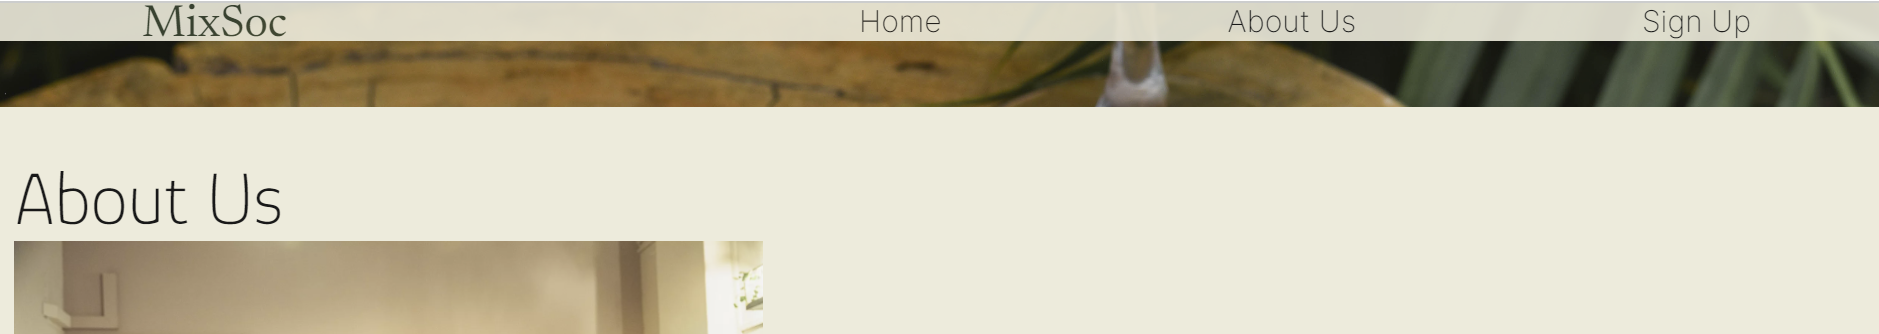
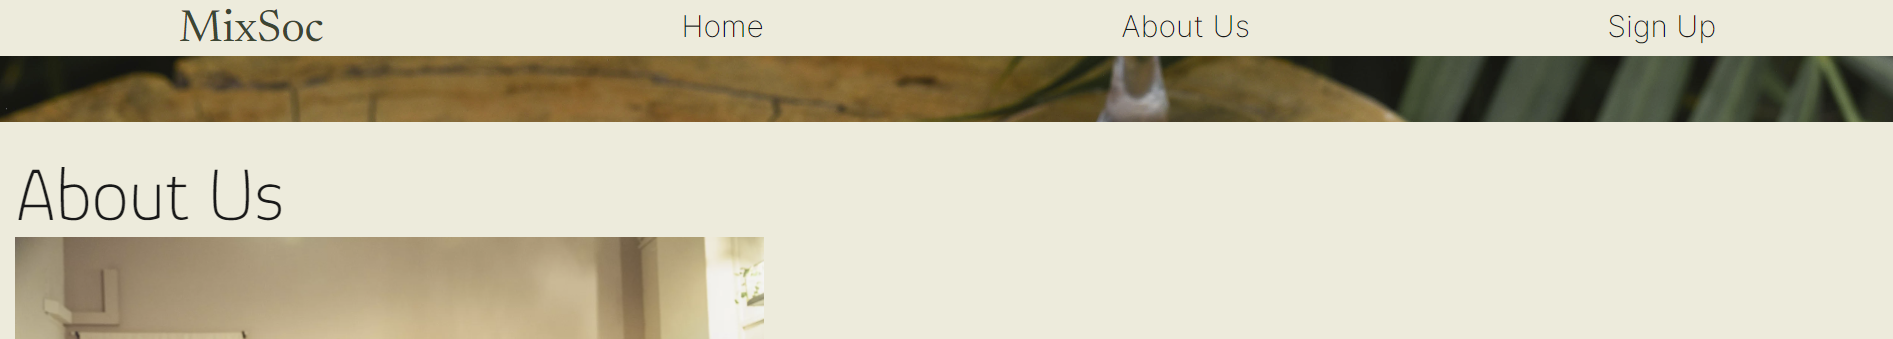
new about section features added

Changed region(s): [[0.0, 0.0, 1.0, 0.3593], [0.0, 0.509, 0.4321, 1.0], [0.0309, 0.9281, 0.1543, 1.0]]

diff --git a/README.md b/README.md
@@ -230,9 +230,18 @@ The navigation bar is responsive for various screen sizes. It includes links to 
     \
     &nbsp;
 
-    [About Us Section](docs/about-section.png)
+    [About Us Section](docs/desktop-about.png)
     \
     &nbsp;
+
+- The layout for smaller devices (< 992px) is for the information to appear as a column.The reason why it is transformed into a row for devices bigger than the stated constraint is because it makes it easier for the view to read the information across bigger screen's widths.
+    \
+    &nbsp;
+
+    [About Us Section](docs/small-about.png)
+    \
+    &nbsp;
+
 
 \
 &nbsp;
